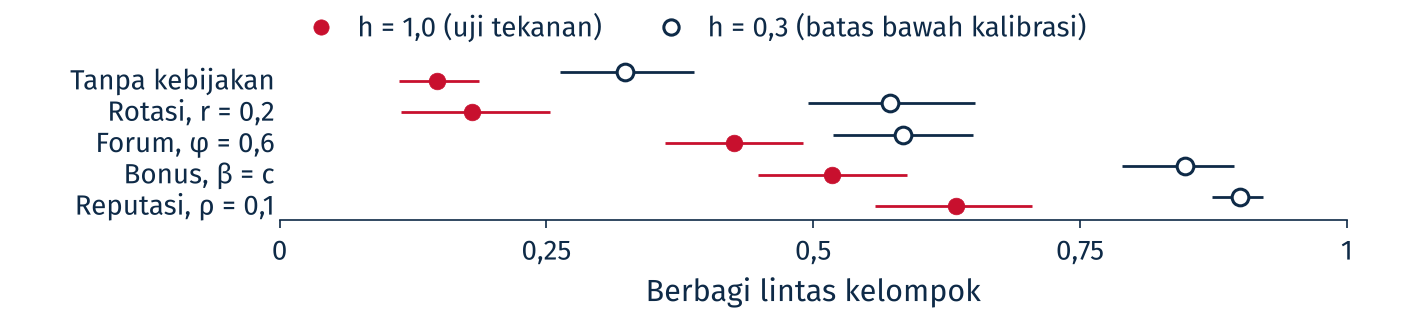
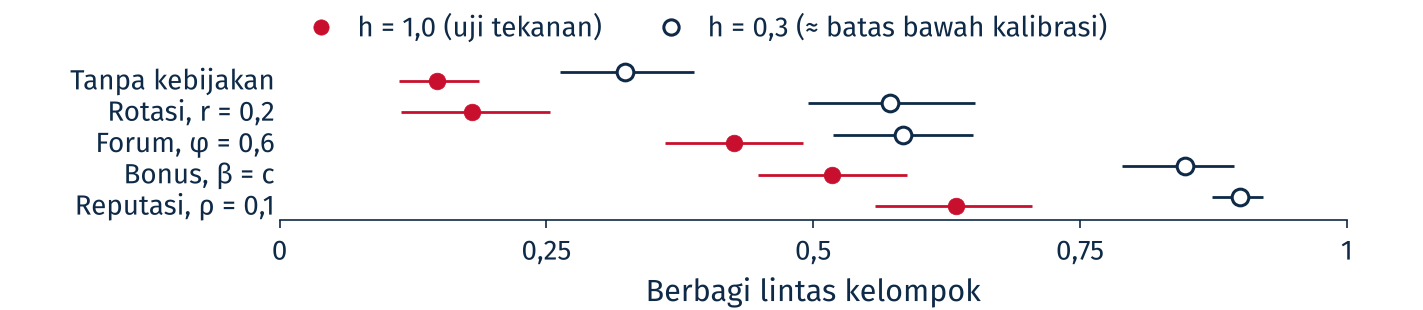
Poster: legenda Gambar 4 versi akhir

Changed region(s): [[0.5566, 0.029, 0.773, 0.1161]]

diff --git a/poster/make_figs_poster.py b/poster/make_figs_poster.py
@@ -98,7 +98,7 @@ ax.spines["left"].set_visible(False); ax.set_ylim(-0.6, len(ROWS) - 0.4)
 ax.set_xlim(0, 1); ax.set_xticks([0, 0.25, 0.5, 0.75, 1]); ax.xaxis.set_major_formatter(koma)
 ax.set_xlabel("Berbagi lintas kelompok")
 ax.plot([], [], "o", ms=11, mfc=RED, mec=RED, label="h = 1,0 (uji tekanan)")
-ax.plot([], [], "o", ms=11, mfc="white", mec=INK, mew=2.2, label="h = 0,3 (batas bawah kalibrasi)")
+ax.plot([], [], "o", ms=11, mfc="white", mec=INK, mew=2.2, label="h = 0,3 (≈ batas bawah kalibrasi)")
 ax.legend(loc="lower left", bbox_to_anchor=(0.0, 1.0), ncol=2, handletextpad=0.3, borderaxespad=0.1, columnspacing=1.5)
 fig.subplots_adjust(left=0.194, right=0.944, bottom=0.896 / 3.1, top=1 - 0.576 / 3.1)
 save(fig, "g3_instrumen")
